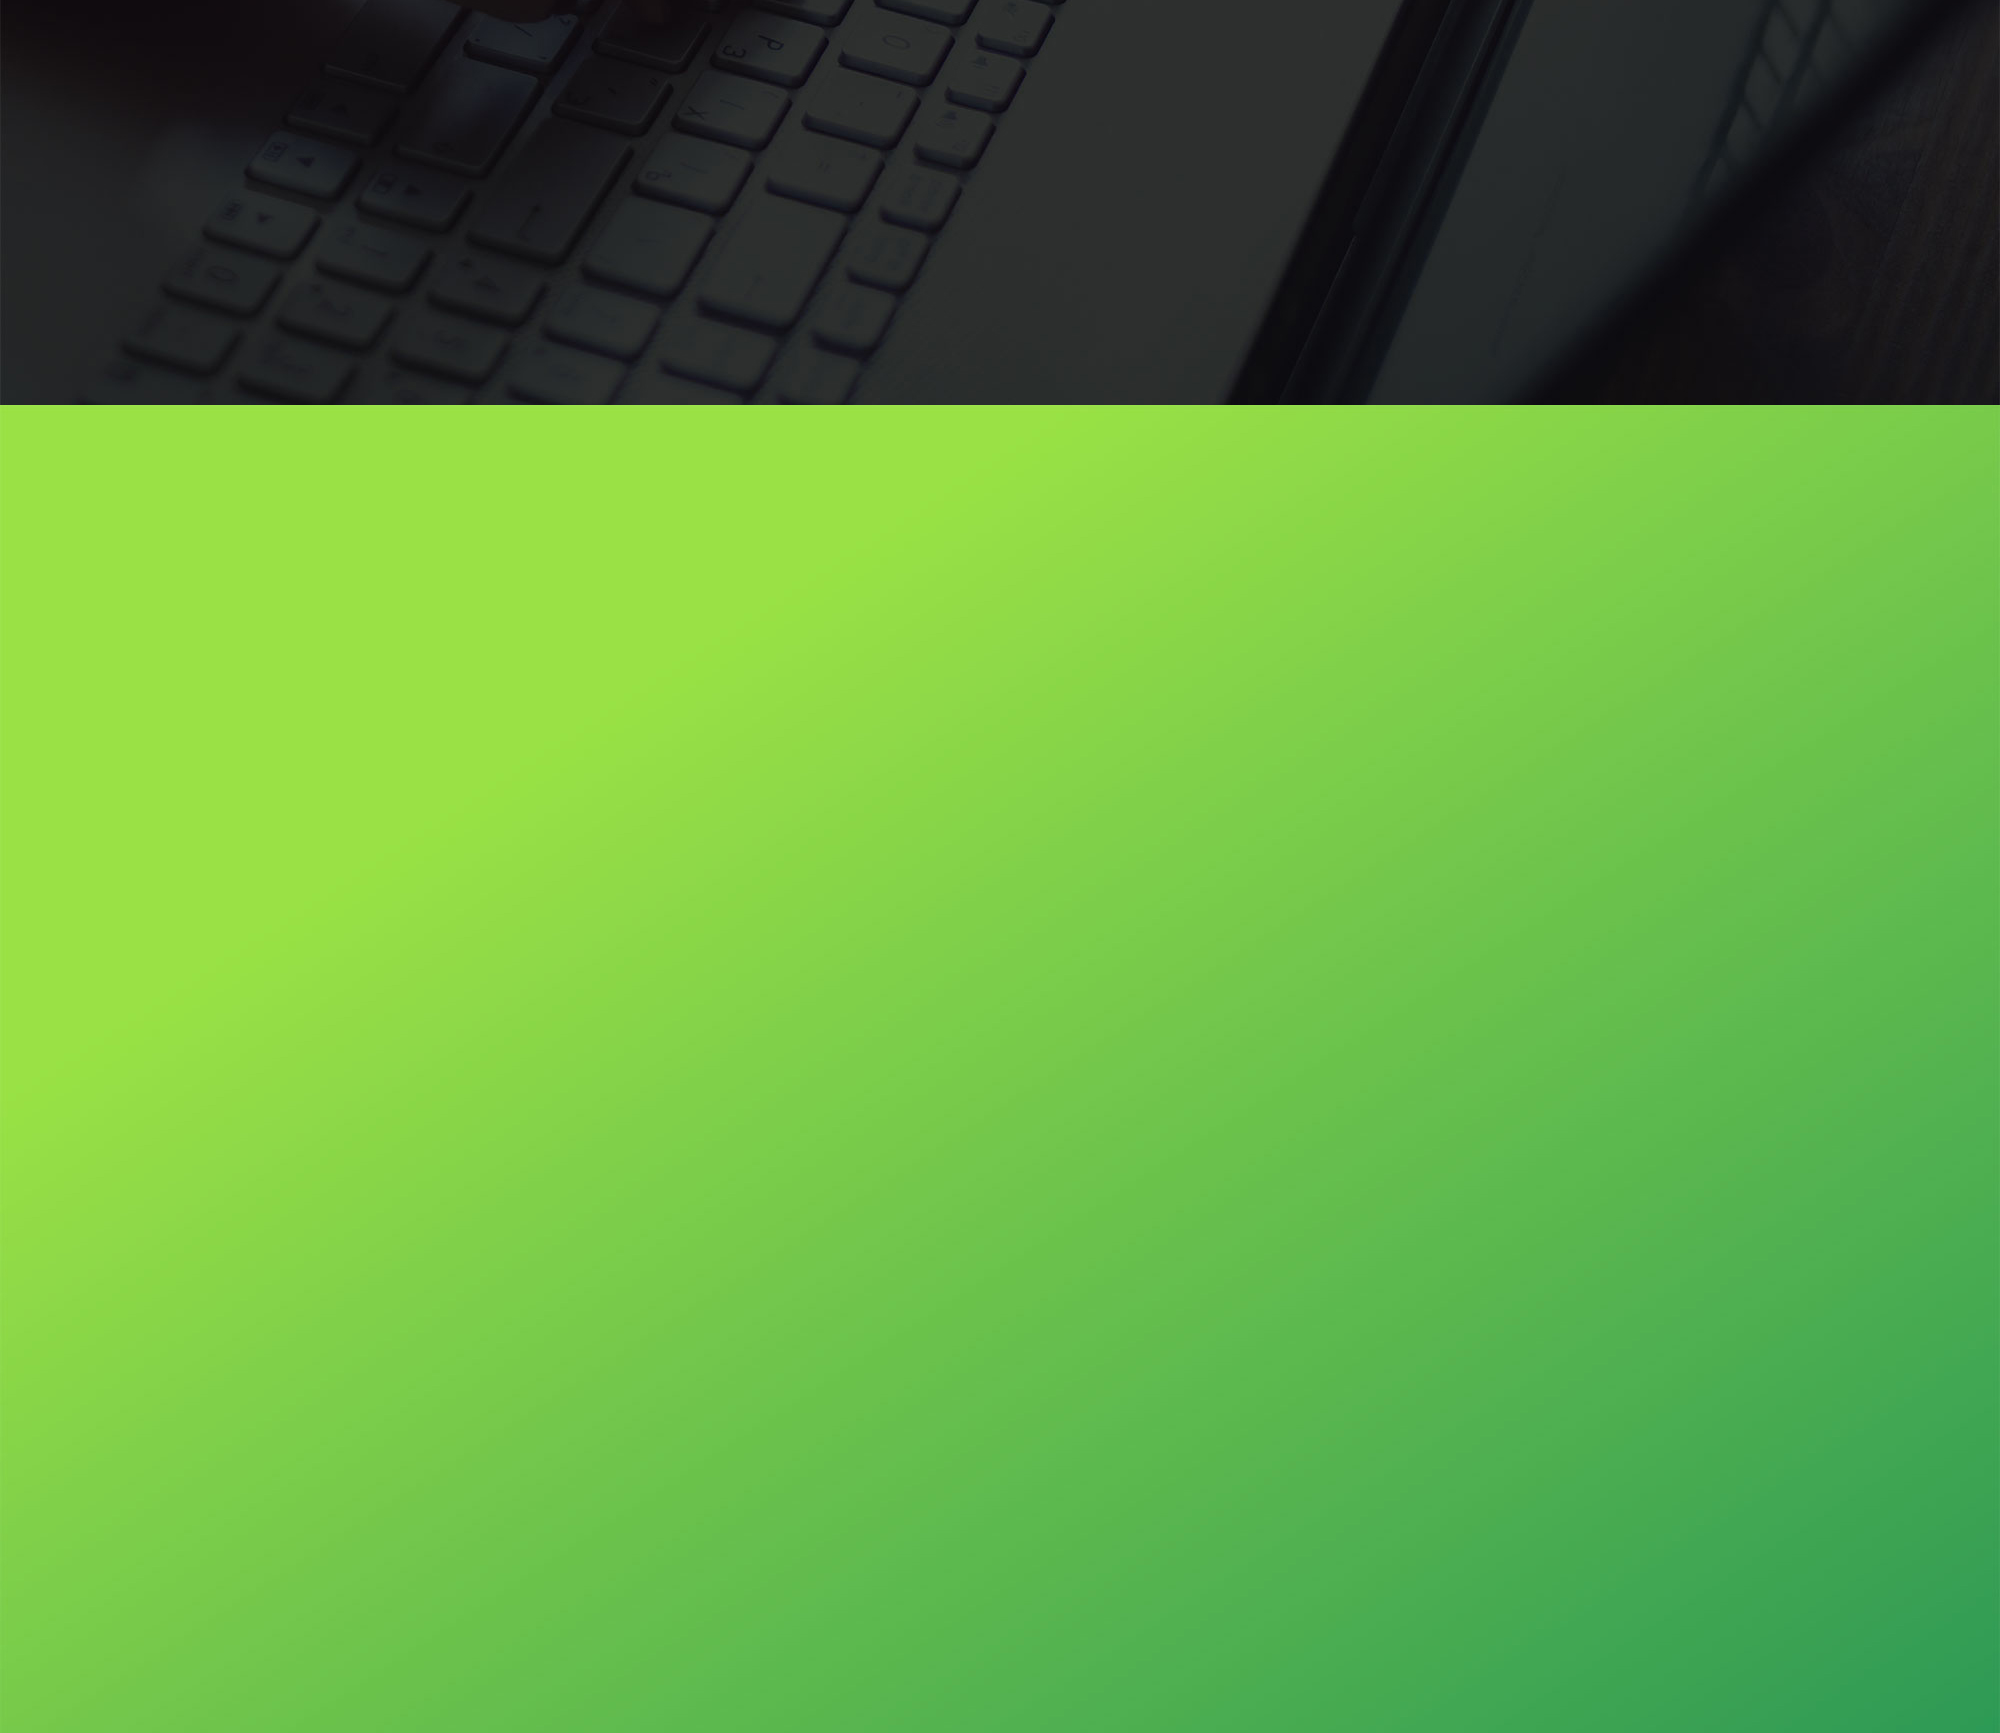
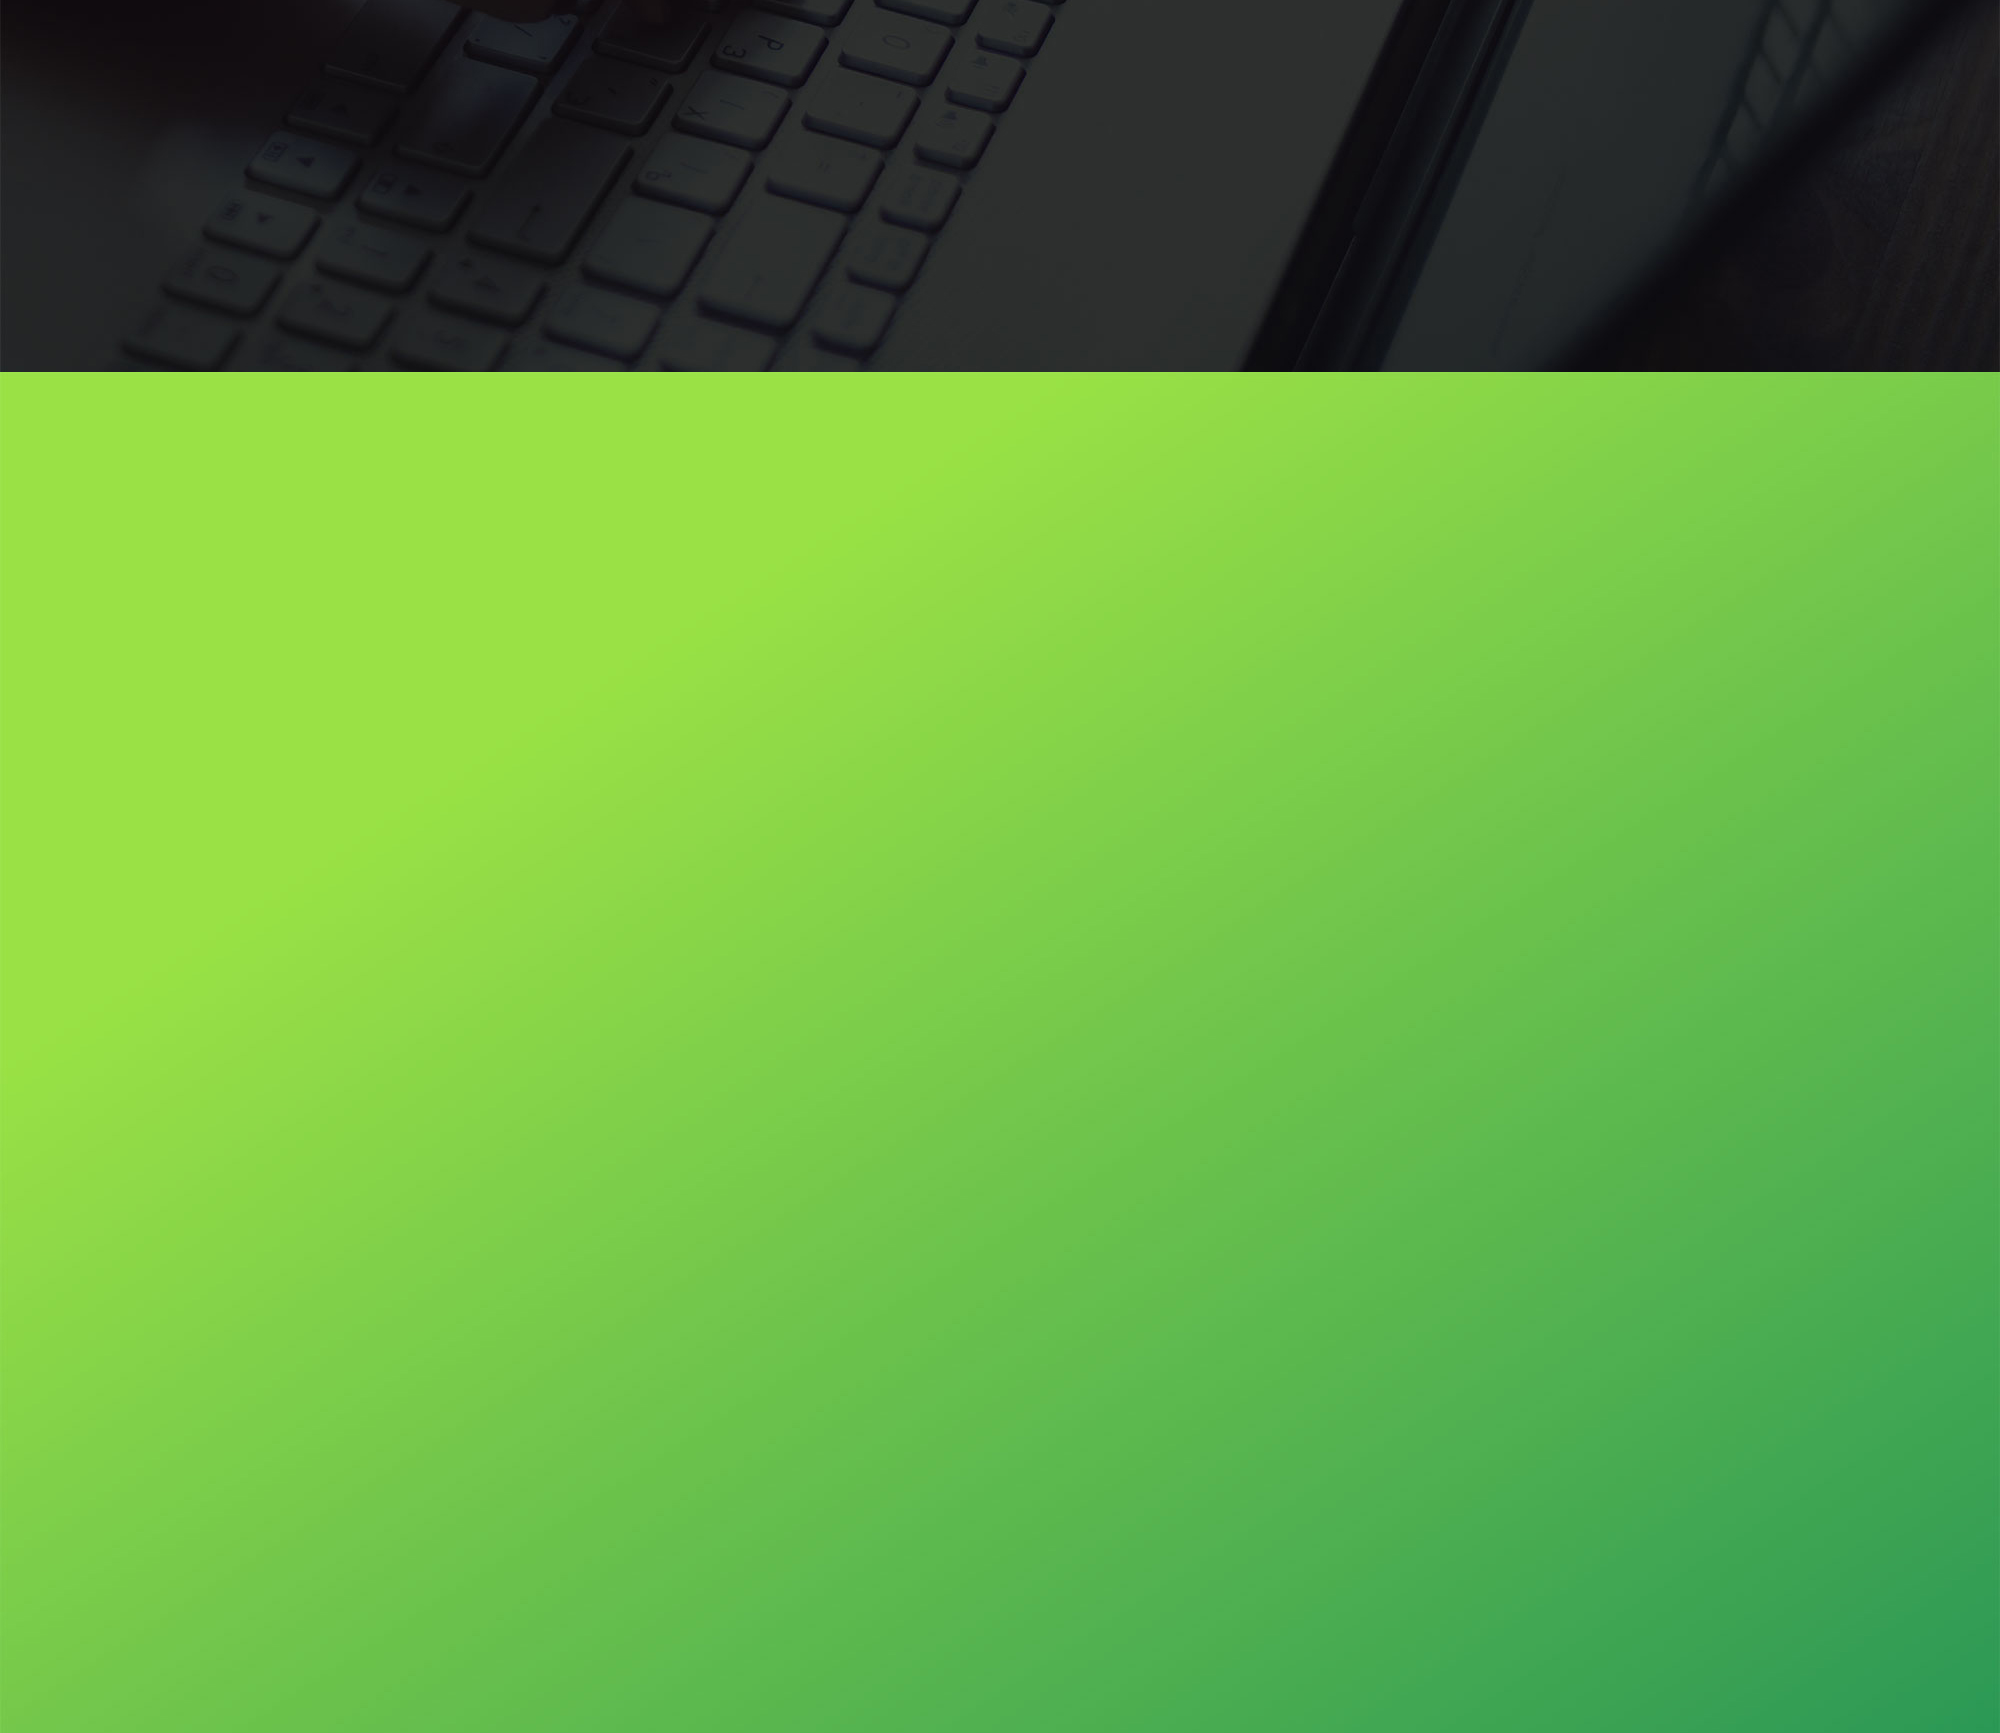
ปรับfont check mark แก้รูป BG contact mob

Changed region(s): [[0.0, 0.187, 1.0, 0.2493]]

diff --git a/css/digistyle.css b/css/digistyle.css
@@ -169,6 +169,12 @@ body>sec {
     grid-template-columns: 10% 1fr 10%;
     -ms-grid-columns: 10% 1fr 10%;
 }
+.content-grid1 {
+    display: grid;
+    display: -ms-grid;
+    grid-template-columns: 6% 1fr 6%;
+    -ms-grid-columns: 6% 1fr 6%;
+}
 .color1 {
     color: #000000;
 }
@@ -370,10 +376,9 @@ body>sec {
 }
 .title-text9 {
     font-family: 'db_heavent_cond';
-    line-height: 1.2;
-    font-weight: 300;
-    font-size: 1.4rem;
-    font-size: clamp(1rem, 2vw, 1.5rem);
+    line-height: 1.5;
+    font-size: 1.5rem;
+    font-size: clamp(1.3rem, 2vw, 1.65rem);
 }
 .text-detail1 {
     font-family: 'db_heaventlight_cond';

diff --git a/index.html b/index.html
@@ -790,7 +790,7 @@
 <!-- ----------------------------------------------------------Contact Us----------------------------------------------------------------- -->
         <section id="contact">
             <a class="anchor" id="contact_anchor"></a>
-            <div class="content-grid">
+            <div class="content-grid1">
                 <div class="ms-col-1"></div>
                 <div class="ms-col-2">
                     <div class="contact-grid1">

diff --git a/onlinesocial.html b/onlinesocial.html
@@ -224,7 +224,7 @@
 <!-- ----------------------------------------------------------Contact Us----------------------------------------------------------------- -->
 <section id="contact">
     <a class="anchor" id="contact_anchor"></a>
-    <div class="content-grid">
+    <div class="content-grid1">
         <div class="ms-col-1"></div>
         <div class="ms-col-2">
             <div class="contact-grid1">
